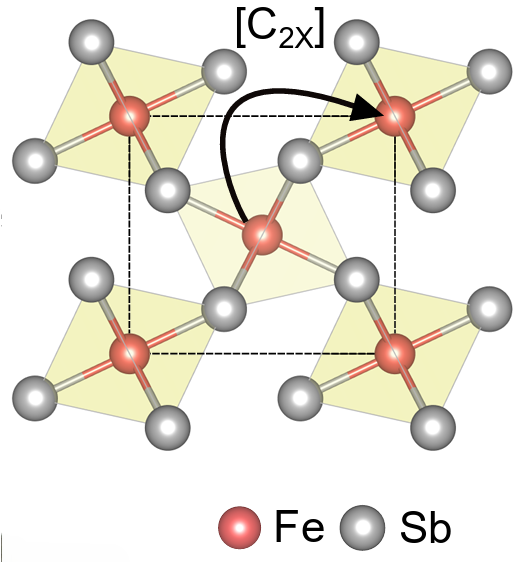
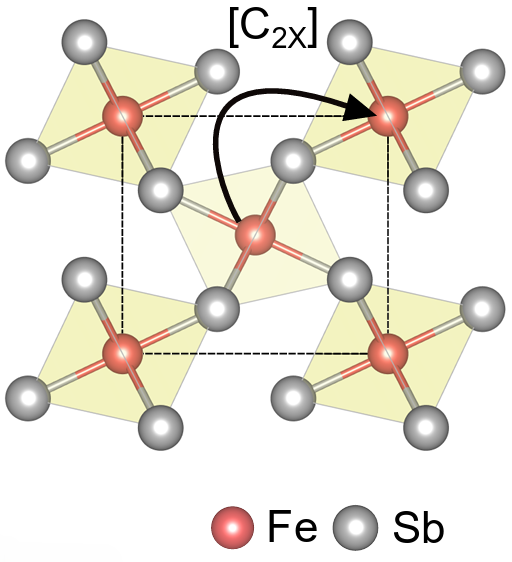
hauptseminar: finished fesb2

diff --git a/hauptseminar/presentation/theory.html b/hauptseminar/presentation/theory.html
@@ -994,6 +994,7 @@
         </model-viewer></div>
 </div>
   <div class="padded" style="margin-top: 20px; background: #0055324b;"><p style="text-align: center;">\(Fe\) Sublattice is invariant under two-fold rotation + translation $[ C_2 \parallel C_{2x} t]$ <br> Makes a <highlight>natural altermagnet candidate</highlight></p></div>
+  <div class="footnote">materialsproject.org: mp-20714</div>
 </section>
 
 
@@ -1020,7 +1021,7 @@
           <li>Rising resistivity at low temperatures</li>
         </ul>
         </div>
-        <div class="footnote">https://materialsproject-build.s3.amazonaws.com/images/electronic_structures/setyawan_curtarolo/mp-20714.png <br> https://arxiv.org/pdf/2604.28105</div>
+        <div class="footnote">materialsproject.org: mp-20714<br> Mathew Roy et al., arXiv:2604.28105</div>
       </section>
 
       <section>
@@ -1037,14 +1038,7 @@
           </ul>
           <div class="concept-card" style="padding: 5px;"><img src="latticelegend.png" alt="Legend showing crystal lattice site positions and labeling conventions" style="width: 100%;"></div>
         </div>
-        <div style="display:grid; grid-template-columns: 1fr 1fr; gap:68px; margin-top: 10px;">
-          <div class="flow-node secondary" style="line-height: normal;">
-            Antiferromagnetic (AFMe) order
-          </div>
-          <div class="flow-node secondary" style="line-height: normal;">
-            Altermagnetic (AFMo) order
-          </div>
-        </div>
+        
         <div style="display:grid; grid-template-columns: 1fr 1fr; gap:18px; margin-top: 20px;">
           <div class="concept-card" style="padding: 7px;">
             <h3>Antiferromagnetic (AFMe) order</h3>
@@ -1055,45 +1049,49 @@
             <img src="afmo.png" alt="DFT calculated band structure for altermagnetic odd (AFMo) configuration of FeSb2" style="width: 95%; height: auto; margin-top: 0px;">
           </div>
         </div>
-        <div class="footnote">https://arxiv.org/pdf/2604.28105</div>
+        <div class="footnote">Mathew Roy et al., arXiv:2604.28105</div>
       </section>
       </section>
 
       <section>
+
       <section>
         <h2>Cobalt-doped FeSb<sub>2</sub></h2>
-        <h3>Closing the gap and stabilizing the altermagnetic state</h3>
-        <div style="display:grid; grid-template-columns: 1.5fr 1fr; gap: 14px; margin-top: 20px;">
-          <div>
+        <h3>Carrier doping with electrons or holes</h3>
+          <p style="font-size: 30px; text-align: center; margin-top: 20px;"><highlight>How to stabilize the altermagnetic state:</highlight></p>
+        <div class="grid-2" style="margin-top: 20px;">
+        <div class="padded">
           <ul>
-          <li><strong>Structure:</strong> Crystal structure is preserved</li>
-          <li><strong>Metallization:</strong> Semiconducting gap is closed</li>
-          <li><strong>Suppression of Fluctuations:</strong> Spin fluctuations reduced</li>
-          <li><strong>Result:</strong> AFMo configuration is stabilized</li>
+            <li>Adding electrons adds impurities, but also quenches the spin fluctuations that destabilize the AFMo order in the parent compound.</li>
+            <li>Adding holes reduces the electron density, which also suppresses the spin fluctuations</li>
+          </ul>
+        </div>
+        <div class="concept-card">
+          <img src="doping.png" alt="Schematic showing the effect of electron doping" style="width: 100%; height: auto; margin-top: 0px;">
+          <img src="doping.png" alt="Schematic showing the effect of hole doping" style="width: 100%; height: auto; margin-top: 0px;">
+        </div>
+        </div>
+        <p style="font-size: 30px; text-align: center;"><highlight>Results:</highlight></p>
+        <div style="display:grid; grid-template-columns: 1fr 1fr; gap: 14px; margin-top: 20px;">
+          <div class="padded">
+          <ul>
+          <li>Crystal structure is preserved</li>
+          <li>Semiconducting gap is closed</li>
+          <li>Spin fluctuations reduced</li>
           <li>Persisting up to room temperature</li>
+          <li>AFMo configuration is stabilized</li>
           </ul>
           </div>
           <div>
         <div class="concept-card">
           <img src="dopedstructure.png" alt="Crystal structure of cobalt-doped FeSb2 showing cobalt substitution on iron sites" style="width: 60%; height: auto; margin-top: 0px;">
         </div>
-        <div class="concept-card" style="text-align: center; margin-top: 20px;">
-        <ul>
-          <li>Cobalt: <span style="font-family: 'Times New Roman', Times, serif;">[Ar] 3d<sup style="color: #860505;">7</sup> 4s<sub>2</sub></span> </li>
-          <li>Iron: <span style="font-family: 'Times New Roman', Times, serif;">[Ar] 3d<sup style="color: #860505;">6</sup> 4s<sub>2</sub></span></li>
-          <li>\(\rightarrow\) Adds <span style="font-family: 'Times New Roman', Times, serif;">3d</span> electrons</li>
-          <li>"Carrier tuning"</li>
-        </ul>
-      </div>
-      </div>
-    </div>
-      <aside class="notes">
+        <aside class="notes">
       evidenced by a sharp drop in electrical resistivity below 100 K and the emergence of a coherent Drude response in the optical conductivity.
 
       The strong itinerant spin fluctuations that plague the parent compound are substantially quenched. This is quantitatively supported by a dramatic reduction in the Drude scattering rate (from \(\approx 905 \text{ cm}^{-1}\) in the parent to \(\approx 559 \text{ cm}^{-1}\) in the doped system at 300 K), despite the introduction of impurity scattering from the Co dopants. Itinerant spin fluctuations act as a massive scattering channel for electrons. When Co-doping stabilizes the altermagnetic order, it quenches these chaotic fluctuations. Therefore, the electrons scatter less, and the scattering rate drops—even though you just added chemical impurities (Cobalt) to the lattice!
       </aside>
-        <div class="footnote">https://arxiv.org/pdf/2604.28105</div>
-
+        <div class="footnote">Mathew Roy et al., arXiv:2604.28105</div>
       </section>
       
       <section>
@@ -1114,6 +1112,109 @@
       </section>
 
 
+
+
+
+<section>
+  <section>
+    <h2>Effects of Cobalt Doping</h2>
+    <h3>Transformation from correlated semiconductor to anisotropic metal</h3>
+    <div class="padded" style="margin-top: 20px;">
+      <p style="text-align: center;"><highlight>The Semiconductor-to-Metal Transition</highlight></p> 
+      <ul>
+        <li>$\text{FeSb}_2$ is a narrow-gap semiconductor (~0.3 eV) with high resistivity at low temperatures.</li>
+        <li>With <highlight>Cobalt substitution</highlight> ($\text{Fe}_{0.85}\text{Co}_{0.15}\text{Sb}_2$), you inject extra electrons into the system. This extra charge <highlight>collapses the semiconducting gap</highlight>.</li>
+        <li>In the optical conductivity $\sigma_1(\omega)$, this is proven by the emergence of a <highlight>Drude peak</highlight> along with new mid-infrared interband transitions at 0.1 eV.</li>
+      </ul>
+      <p style="color: #6d6d6d">Drude peak: a sharp spike in absorption centered at zero energy, which is the universal optical signature of free, mobile conduction electrons</p>
+    </div>
+    <div class="padded" style="margin-top: 20px;">
+      <p style="text-align: center;"><highlight>Persistent Structural and Optical Anisotropy</highlight></p>
+    </div>
+    <div class="padded" style="margin-top: 20px;">
+      <p style="text-align: center;"><highlight>Quenching Spin Fluctuations</highlight></p>
+    </div>
+  </section>
+  <section>
+    <h2>Effects of Cobalt Doping</h2>
+    <h3>Transformation from correlated semiconductor to anisotropic metal</h3>
+    <div class="padded" style="margin-top: 20px;">
+      <p style="text-align: center;"><highlight>The Semiconductor-to-Metal Transition</highlight></p> 
+    </div>
+    <div class="padded" style="margin-top: 20px;">
+      <p style="text-align: center;"><highlight>Persistent Structural and Optical Anisotropy</highlight></p>
+      
+      <ul>
+        <li>Metallic transition does not destroy directional preferences. The optical response is still highly dependent on whether the light is polarized along the crystal's $a$-axis or $c$-axis.</li>
+        <li>Unscreened plasma frequency ($\omega_p$) along the $c$-axis (2.23 eV) higher than $a$-axis (1.95 eV). Since $\omega_p^2$ is proportional to the carrier density ($n$) divided by the effective mass ($m^*$), this means the electrons are physically "lighter" or more densely packed along the $c$-axis.</li>
+        <li>Crucial, because altermagnets natively rely on anisotropic transport properties.</li>
+      </ul>
+    </div>
+    <div class="padded" style="margin-top: 20px;">
+      <p style="text-align: center;"><highlight>Quenching Spin Fluctuations</highlight></p>
+    </div>
+  </section>
+  <section>
+    <h2>Effects of Cobalt Doping</h2>
+    <h3>Transformation from correlated semiconductor to anisotropic metal</h3>
+    <div class="padded" style="margin-top: 20px;">
+      <p style="text-align: center;"><highlight>The Semiconductor-to-Metal Transition</highlight></p> 
+    </div>
+    <div class="padded" style="margin-top: 20px;">
+      <p style="text-align: center;"><highlight>Persistent Structural and Optical Anisotropy</highlight></p>
+    </div>
+    <div class="padded" style="margin-top: 20px;">
+      <p style="text-align: center;"><highlight>Quenching Spin Fluctuations</highlight></p>
+      <ul>
+        <li>Adding impurities/dopants to a pristine crystal creates atomic disorder, increasing the electron scattering rate ($1/\tau$), making the material dirtier and more resistive.</li>
+        <li>But: scattering rate actually drops drastically to less than half of the parent compound's value (e.g., along the $a$-axis at 300 K, from 1221 $\text{cm}^{-1}$ down to 336 $\text{cm}^{-1}$).</li>
+        <li>Therefore, the dominant source of electrical resistance was highly violent, incoherent spin fluctuations.<br>Cobalt doping introduces a stable magnetic environment that suppresses these fluctuations so the electrons can flow much more smoothly through the lattice, despite the Cobalt impurities.</li>
+      </ul>
+    </div>
+  </section>
+  <section>
+    <h2>Effects of Cobalt Doping</h2>
+    <h3>Transformation from correlated semiconductor to anisotropic metal</h3>
+    <div style="display: grid; grid-template-columns: 1fr 2fr; gap: 10px;margin-top: 20px;">
+    <div class="padded" style=" background: #ffffff; padding: 10px;">
+      text
+    </div>
+    <div class="concept-card">
+      <img src="fanoline.png" alt="plot showing the dramatic reduction in Drude scattering rate upon cobalt doping, indicating quenching of spin fluctuations" style="width: 85%; height: auto; margin-top: 0px;">
+    </div>
+    </div>
+  </section>
+</section>
+
+
+
+
+<section>
+  <h2>Preparing the DFT Simulation</h2>
+  <h3>Selection of exchange-correlation functional and magnetic order</h3>
+  <div style="display: grid; grid-template-columns: 1fr 2fr; margin-top: 20px; gap: 10px">
+  <div class="padded">
+    <ul>
+      <li>No matching $\text{DOS}$ at $E_F$</li>
+      <li>No matching Band structure</li>
+      <li>No matching optical conductivity</li>
+    </ul>
+    <p style="text-align: center; margin-top: 30px;"><highlight>Conclusion:</highlight> <br> The AFM state is not the ground state of $\text{FeSb}_2$</p>
+  </div>
+  <div class="concept-card" style="padding: 5px;">
+    <img srcresfesb2_result.png" alt="Simulated Band structure and optical conductivity of FeSb2" style="width: 100%;"></div>
+  </div>
+  <div class="padded" style="margin-top: 20px;">
+    <p style="text-align: center;"><highlight>PBE simulates non-magnetic $\text{FeSb}_2$ best</highlight>.<br>The underestimation of band gaps aligns with itinerant spin fluctuations.</p>
+  </div>
+</section>
+
+
+
+
+
+
+
       <section>
       <section><h2>Identifying the Altermagnetic State</h2><h3>The DFT Comparison (NM vs. AFMe vs. AFMo)</h3>
         <div class="concept-card" style="margin-top: 20px; padding: 5px;">
@@ -1123,41 +1224,27 @@
       </section>
       <section><h2>Identifying the Altermagnetic State</h2><h3>Non-Relativistic Spin Splitting</h3>
         <div style="display:grid; grid-template-columns: 1fr 1.5fr; gap:18px; margin-top: 20px;">
-        <div class="concept-card" style="margin-top: 20px; padding: 5px;">
+        <div class="concept-card" style=" padding: 5px;">
           <img src="fermisurface.png" alt="Fermi surface of cobalt-doped FeSb2 showing spin-split surfaces with alternating polarization" style="width: 300px; height: auto; margin-top: 0px;">
         </div>
+        <div>
+        <div class="padded">
           <ul>
             <li>Clear spin-splitting of the Fermi surface</li>
             <li>Alternating spin-polarization across the Brillouin zone</li>
           </ul>
+          
+        </div>
+        <div class="concept-card" style="margin-top: 20px;">
+          <img src="fesb2_result.png" alt="Spin polarization map of the Fermi surface showing alternating spin orientations in k-space" style="width: 100%; height: auto; margin-top: 0px;">
+        </div>
+        </div>
         </div>
       </section>
       </section>
 
       <section>
-      <section><h2>Secondary Proofs & Conclusion</h2><h3>Phonon Fingerprints: Drude Response</h3>
-        <div style="display:grid; grid-template-columns: 1fr 1fr; gap:18px; margin-top: 20px;">
-          <div>
-            <p>Only for Co-doped FeSb2:</p>
-          <ul>
-            <li>Drude response (at around 0.1 eV) proves metallic behavior</li>
-            <li>Low energy transition (at around 0.1 eV)</li>
-          </ul>
-          <p>Adding a Cobalt doping results in less scattering therefore quenching the spin fluctuations <br> the system settles into the AFMo ground state</p>
-          </div>
-          <div class="concept-card" style="padding: 5px;">
-            <img src="fanoline.png" alt="fanoline.png" style="width: 100%; height: auto; margin-top: 0px;">
-          </div>
-        </div>
-      </section>
-      <section><h2>Secondary Proofs & Conclusion</h2><h3>Phonon Fingerprints: Fano Line</h3>
-      <div style="display:grid; grid-template-columns: 1fr 1fr; gap:18px; margin-top: 20px;">
-        <p>Fano-distorted phonons occur at specific frequencies that coincide with imaginary phonon frequencies in the DFT <br>In the altermagnetic model, these phonon anomalies happen at the same $k$-points where the spin-split bands cross</p>
-        <div class="concept-card" style="padding: 5px;">
-          <img src="ramanshift.png" alt="a Infraredoptical conductivity σ1(ω) at 10K showing the infrared-active phonon modes of undoped FeSb2 and Fe 0.85 Co 0.15 Sb2 along the c-and a-axes; Fano line shapes emerging upon Co substitution are highlighted by the asymmetric fits. b Raman intensity at 10K showing the Raman-active modes of the same compounds along the c-and a-axes." style="width: 100%; height: auto; margin-top: 0px;">
-        </div>
-      </div>
-      </section>
+
       <section><h2>Secondary Proofs & Conclusion</h2><h3>Phonon Fingerprints: Mode Mixing</h3>
       <div style="display:grid; grid-template-columns: 1fr 1fr; gap:18px; margin-top: 20px;">
         <div>

diff --git a/hauptseminar/presentation/styles.css b/hauptseminar/presentation/styles.css
@@ -190,6 +190,7 @@
   color: var(--muted-color);
   font-family: 'Times New Roman', Times, serif;
   font-style: italic;
+  line-height: normal;
 }
 
 /* ===========================================